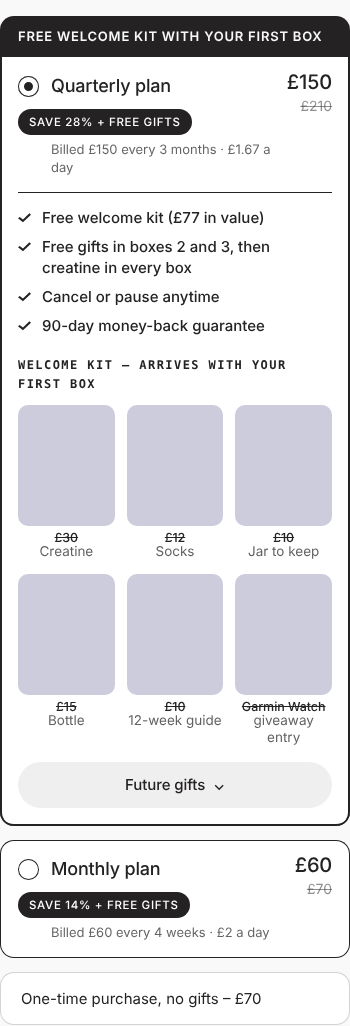
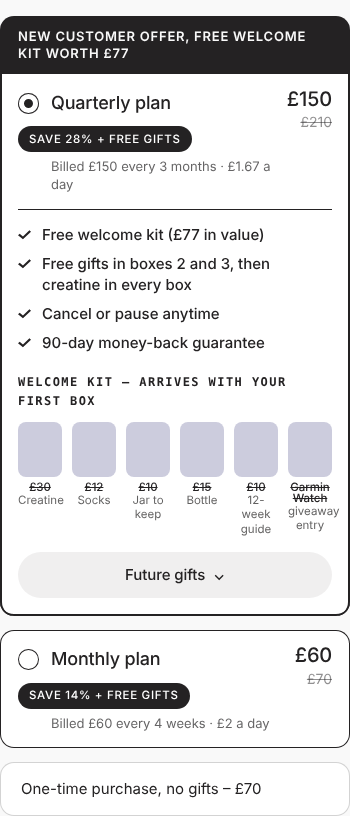
-2 PDP: gift tiles small on one row; offer bar shows the selected plan's kit value
Claude-Session: https://claude.ai/code/session_01YUaqMprd9jDWbjH8Lh4n9H

diff --git a/shopify/pdp-45/artah/artah.css b/shopify/pdp-45/artah/artah.css
@@ -54,11 +54,11 @@ html body .mc .mc__plan-detail li::before{content:"";position:absolute;left:0;to
 /* Gifts for the selected plan, closing the box */
 html body .mc .mc__plans > .mc__kit{margin:0;padding:16px 18px 18px;border-top:0;border-radius:0 0 14px 14px;background:#fff;box-shadow:inset 2px 0 0 #242223,inset -2px 0 0 #242223,inset 0 -2px 0 #242223}
 html body .mc .mc__kit-title{font-family:var(--mc-mono,monospace);font-size:12px;font-weight:600;letter-spacing:.12em;text-transform:uppercase}
-html body .mc .mc__kit-list{display:grid !important;grid-template-columns:repeat(3,minmax(0,1fr)) !important;grid-auto-flow:row;gap:14px 12px !important;margin-top:12px}
+html body .mc .mc__kit-list{display:grid !important;grid-template-columns:none !important;grid-auto-flow:column;grid-auto-columns:minmax(0,72px);justify-content:start;gap:10px !important;margin-top:12px}
 html body .mc .mc__kit-list li{text-align:center}
-html body .mc .mc__kit-frame{border-radius:10px;overflow:hidden}
-html body .mc .mc__kit-value{font-size:12.5px;margin-top:6px}
-html body .mc .mc__kit-name{font-size:13.5px;line-height:1.25}
+html body .mc .mc__kit-frame{border-radius:8px;overflow:hidden}
+html body .mc .mc__kit-value{font-size:11.5px;margin-top:5px}
+html body .mc .mc__kit-name{font-size:11.5px;line-height:1.25}
 html body .mc .mc__kit-more{margin-top:16px}
 html body .mc .mc__kit-sum{display:flex;align-items:center;justify-content:center;gap:8px;min-height:46px;border-radius:23px;background:rgba(36,34,35,.07);font-size:15px;font-weight:500;cursor:pointer}
 

diff --git a/shopify/pdp-45/artah/artah.js b/shopify/pdp-45/artah/artah.js
@@ -46,6 +46,19 @@ document.addEventListener('click', function (e) {
     if (tries > 0) setTimeout(function () { selectQuarterly(tries - 1); }, 250);
   }
 
+  /* The offer bar names the selected plan's welcome kit value */
+  var KIT = ['£62', '£77']; /* Skio order: 1 = monthly, 2 = quarterly */
+  function syncBanner() {
+    var bar = document.querySelector('.mc__plans-banner');
+    if (!bar) return;
+    var i = cards().findIndex(function (c) { return c.classList.contains('is-selected'); });
+    if (i < 0 || !KIT[i]) return;
+    var t = 'New customer offer, free welcome kit worth ' + KIT[i];
+    if (bar.textContent !== t) bar.textContent = t;
+  }
+  var _syncWas = syncWas;
+  syncWas = function () { _syncWas(); syncBanner(); };
+
   function start() {
     var price = document.querySelector('.mc__buy-cta [data-mh-cta-price]');
     if (price && window.MutationObserver) {

diff --git a/shopify/pdp-45/artah/apply_artah.py b/shopify/pdp-45/artah/apply_artah.py
@@ -20,7 +20,7 @@ SETTINGS = {
             "your body turns into NAD+, with TMG, CoQ10, PQQ, resveratrol, vitamins D3 and K2 and all 8 B vitamins. "
             "19 ingredients in 2 capsules, every dose on the label.</p>"
             "<p><a href=\"#whats-inside\">Ingredients + nutritional information</a></p>",
-    "plans_banner": "Free welcome kit with your first box",
+    "plans_banner": "New customer offer, free welcome kit worth up to £77",
     "plans_label": "Choose your plan",
     "kit_title": "Welcome kit — arrives with your first box",
     "kit_itemised": False,
